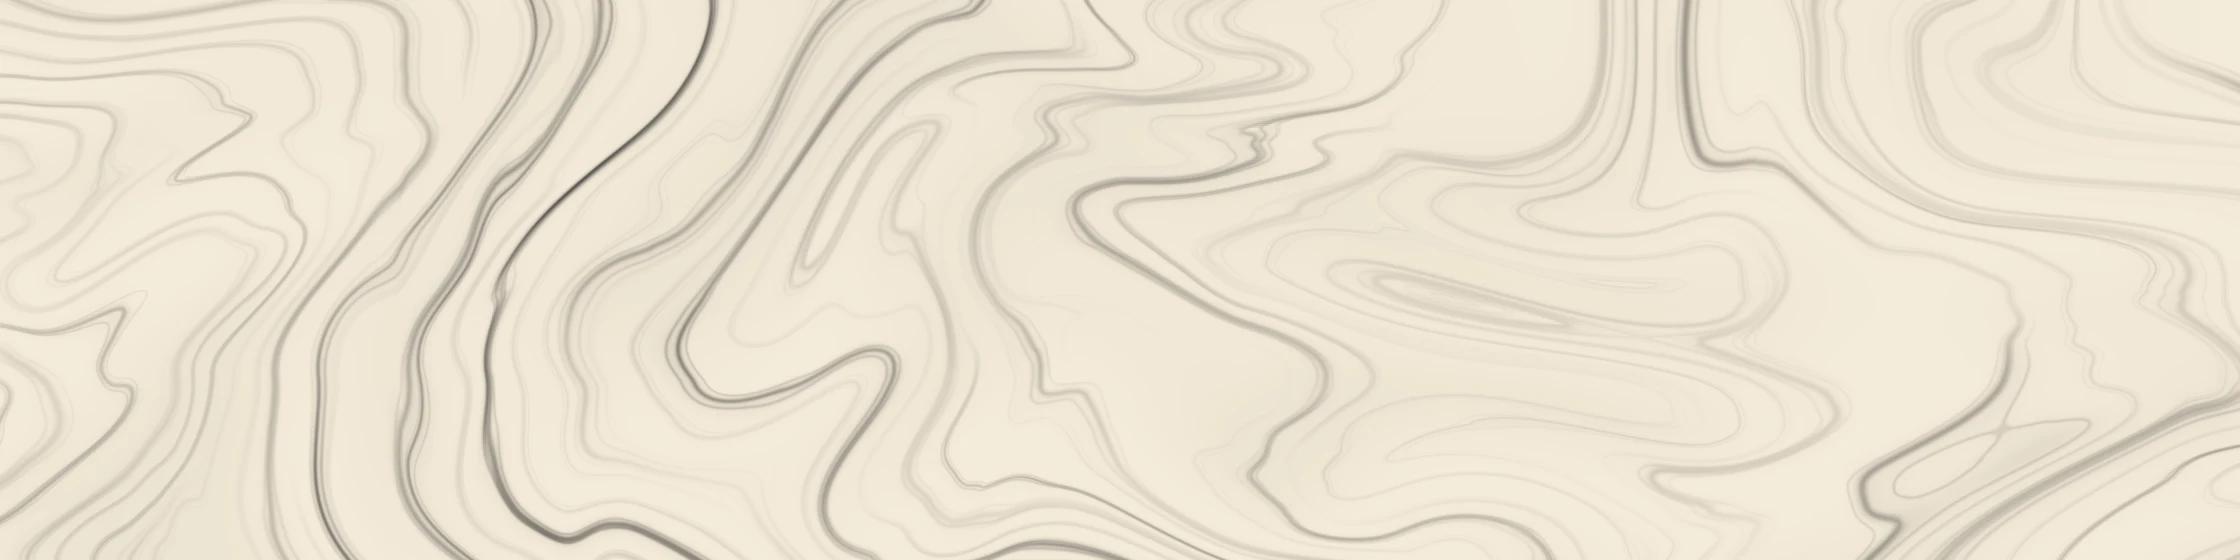
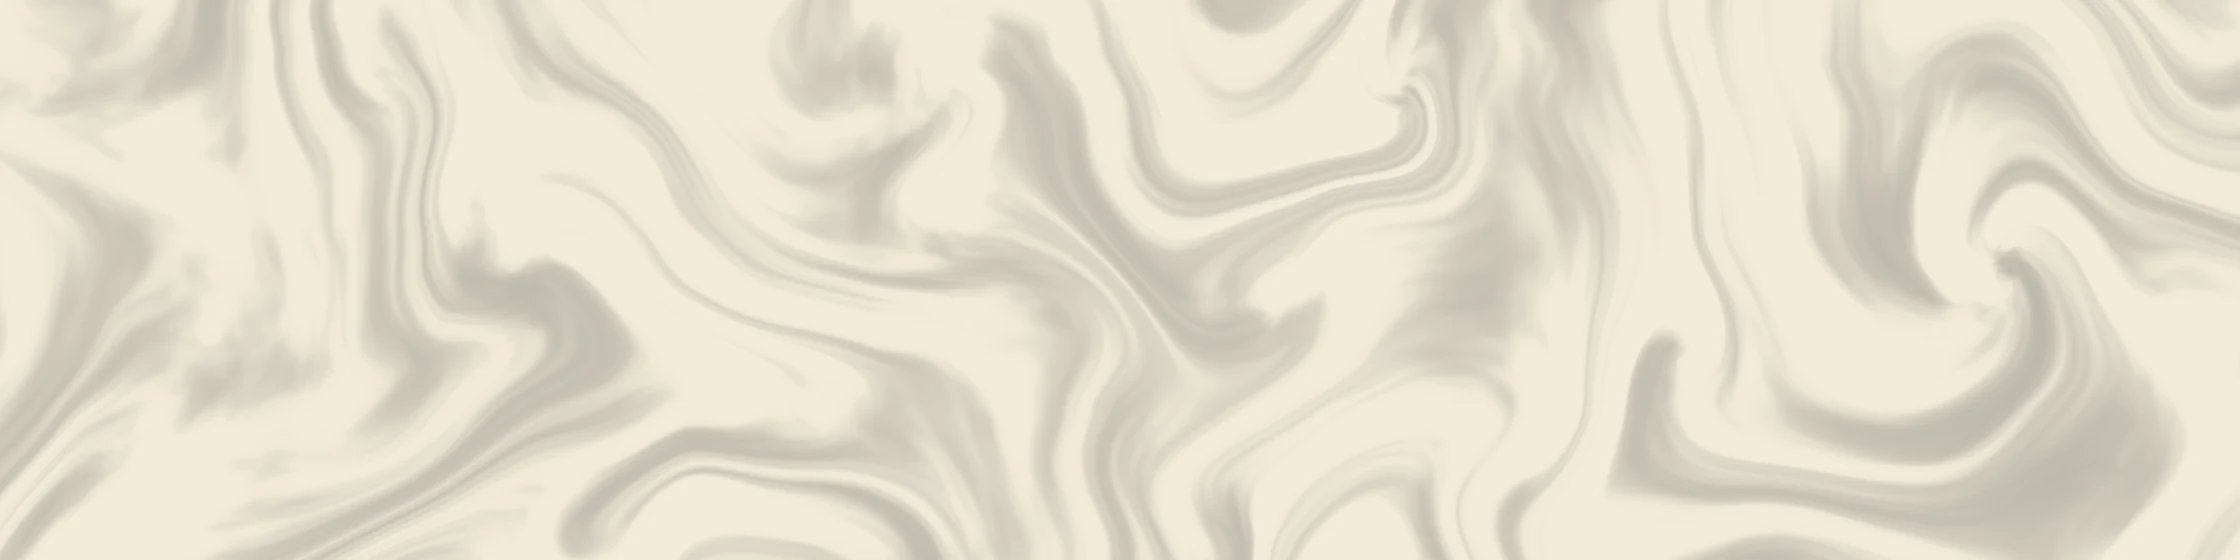
Título: humo denso y suave en lugar de vetas dibujadas
El humo del título pasa de ser un dibujo de líneas que se desplazaba a ser
humo de volumen: masas suaves con velos y hebras, como el de un cigarrillo,
que velan de gris las letras y suben muy despacio.

- Sombreador nuevo (src/lib/humo.frag): una mancha de ruido suave se arrastra
  unos pasos por una corriente de remolinos sin divergencia, que la estira en
  velos; el humo sube a través de esa corriente, que casi no se mueve, así
  que las formas persisten y se deslizan en vez de hervir o desfilar.
- Más lento y más tenue: recorre el alto del título en un minuto y vela las
  letras un 40 % como mucho.
- Ya no necesita la extensión de derivadas. Como el humo es suave, el lienzo
  se pinta a 1,5 píxeles por píxel de página como máximo y puede bajar hasta
  0,5 en equipos lentos antes de quedarse en la imagen fija.
- Imagen fija regenerada desde el mismo dibujo (27 kB).

diff --git a/README.md b/README.md
@@ -139,9 +139,9 @@ npm run build    # genera el sitio en dist/
   la de error 404.
 - `.pages.yml` — los formularios del editor visual. Si se añade un campo en
   `src/content.config.ts`, hay que añadirlo también aquí.
-- `src/lib/humo.frag` — el humo que recorre las letras del título (WebGL).
-  Al principio del archivo están su velocidad (`SUBIDA`) y lo que se marcan
-  las vetas (`FUERZA`). Después de tocarlo hay que ejecutar `npm run marmol`
-  (necesita Chrome o Chromium): regenera `src/assets/marmol.webp`, la imagen
-  fija que se ve mientras carga la página y en los navegadores que no pueden
-  animarlo.
+- `src/lib/humo.frag` — el humo que sube por las letras del título (WebGL).
+  Al principio del archivo están su velocidad (`SUBIDA`), cuánto vela las
+  letras (`FUERZA`) y cuánto humo hay (`CUBRE`). Después de tocarlo hay que
+  ejecutar `npm run marmol` (necesita Chrome o Chromium): regenera
+  `src/assets/marmol.webp`, la imagen fija que se ve mientras carga la página
+  y en los navegadores que no pueden animarlo.
